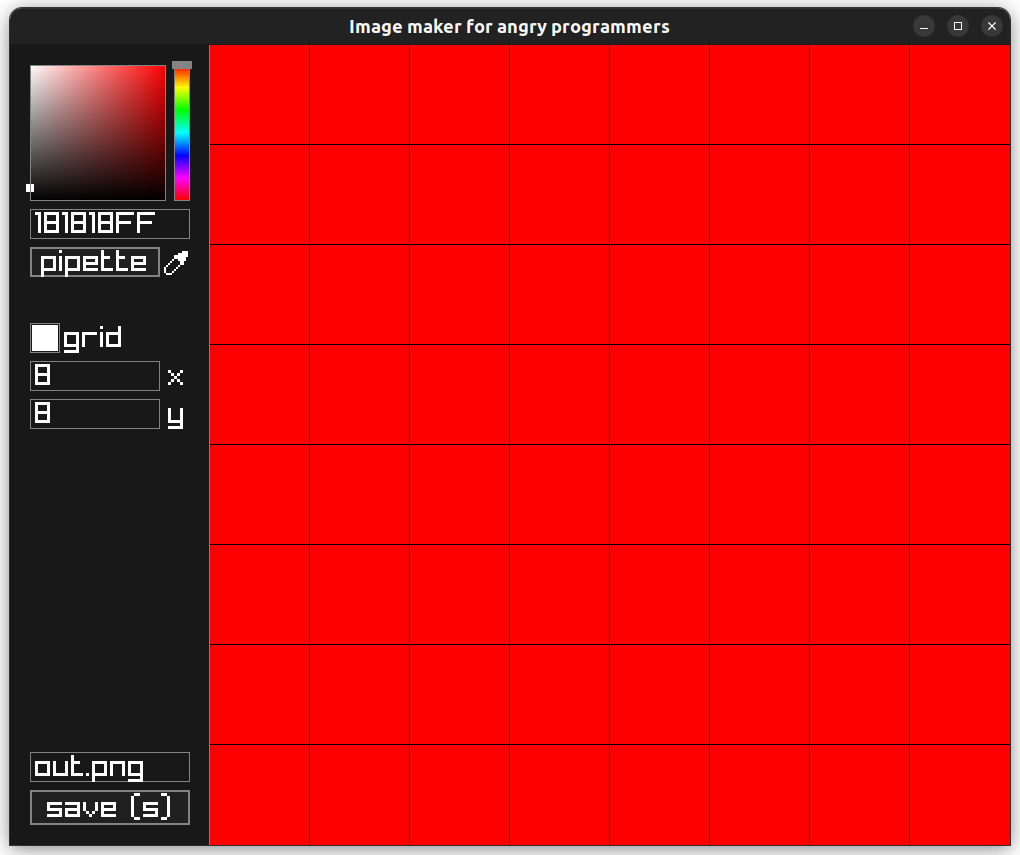
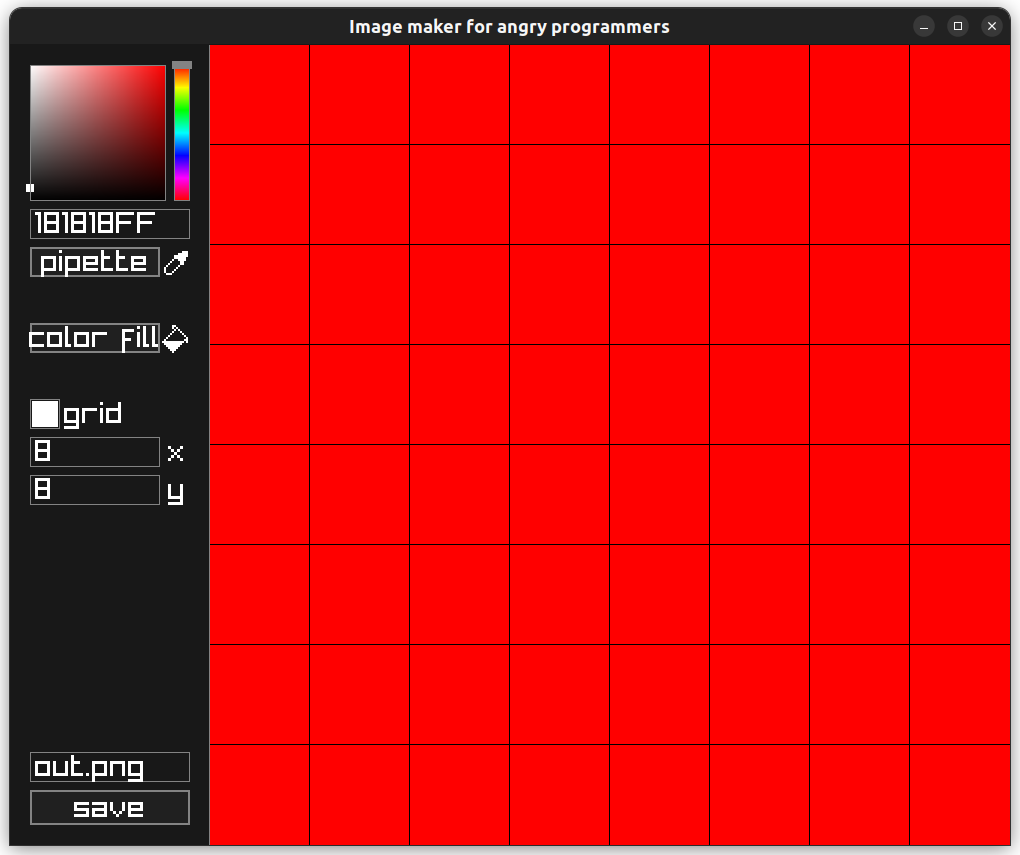
added color fill tool

Changed region(s): [[0.0304, 0.3649, 0.1824, 0.6082], [0.0304, 0.9123, 0.152, 0.9731], [0.152, 0.4865, 0.1824, 0.6082]]

diff --git a/main.c b/main.c
@@ -22,6 +22,7 @@
 enum CURSOR_MODE{
     CURSOR_DEFAULT,
     CURSOR_PIPETTE,
+    CURSOR_COLOR_FILL,
 };
 
 bool save_texture_as_image(Texture2D tex, const char *path){
@@ -72,6 +73,7 @@ Texture2D loadImageAsTexture(Image *img){
     return buffer;
 }
 
+// replaces the existing texture and unloads it. Returns true on success.
 bool setTextureToImage(Texture2D *texture, Image *img){
     Texture2D new_buffer = loadImageAsTexture(img);
     if (!IsTextureReady(new_buffer)){
@@ -125,6 +127,85 @@ void togglePipette(enum CURSOR_MODE *cursor){
     if (*cursor != CURSOR_PIPETTE) *cursor = CURSOR_PIPETTE;
     else *cursor = CURSOR_DEFAULT;
 }
+
+void toggleColorFill(enum CURSOR_MODE *cursor){
+    if (*cursor != CURSOR_COLOR_FILL) *cursor = CURSOR_COLOR_FILL;
+    else *cursor = CURSOR_DEFAULT;
+}
+
+void imageColorFlood(Image *image, Vector2 source_pixel, Color new_color){
+    Color old_color = GetImageColor(*image, source_pixel.x, source_pixel.y);
+
+    Color *pixels = (Color*)image->data;
+    size_t pixel_count = image->height * image->width;
+    size_t end_ptr = 0;
+    size_t next_ptr = 0;
+    size_t *queue = malloc(pixel_count * sizeof(*queue));
+    bool *visited = malloc(pixel_count * sizeof(*visited));
+    if (queue == NULL || visited == NULL){
+        perror("unable to allocate sufficient memory\n");
+        free(queue);
+        free(visited);
+        return;
+    }
+
+    memset(visited, 0, pixel_count * sizeof(*visited));
+
+    size_t source_pixel_idx = (int)source_pixel.x + (int)source_pixel.y * image->width;
+    queue[end_ptr++] = source_pixel_idx;
+
+    while(end_ptr != next_ptr){
+        if (end_ptr == pixel_count-1){
+            free(queue);
+            free(visited);
+            return;
+        }
+
+        size_t pixel_idx = queue[next_ptr++];
+        pixels[pixel_idx] = new_color;
+
+        if (pixel_idx >= 1){
+            size_t west = pixel_idx - 1;
+            if (memcmp(&pixels[west], &old_color, sizeof(old_color)) == 0){
+                if (!visited[west]){
+                    queue[end_ptr++] = west;
+                    visited[west] = true;
+                }
+            }
+        }
+        if (pixel_idx < pixel_count - 1){
+            size_t east = pixel_idx + 1;
+            if (memcmp(&pixels[east], &old_color, sizeof(old_color)) == 0){
+                if (!visited[east]){
+                    queue[end_ptr++] = east;
+                    visited[east] = true;
+                }
+            }
+        }
+        if (pixel_idx < pixel_count - image->width){
+            size_t south = pixel_idx + image->width;
+            if (memcmp(&pixels[south], &old_color, sizeof(old_color)) == 0){
+                if (!visited[south]){
+                    queue[end_ptr++] = south;
+                    visited[south] = true;
+                }
+            }
+        }
+        if (pixel_idx >= (size_t)image->width){
+            size_t north = pixel_idx - image->width;
+            if (memcmp(&pixels[north], &old_color, sizeof(old_color)) == 0){
+                if (!visited[north]){
+                    queue[end_ptr++] = north;
+                    visited[north] = true;
+                }
+            }
+        }
+    }
+
+    free(queue);
+    free(visited);
+}
+
 
 int main(int argc, char **argv){
 
@@ -271,12 +352,23 @@ int main(int argc, char **argv){
                     alpha = pixel_color.a;
                     UnloadImage(canvas_content);
                 }
+                // TODO: disable set pixel on button down, if a tool was pressed. (to avoid set pixel on tool clicks)
+                // color fill
+                else if (cursor == CURSOR_COLOR_FILL && IsMouseButtonPressed(MOUSE_BUTTON_LEFT)){
+                    cursor = CURSOR_DEFAULT;
+                    Image canvas_content = LoadImageFromTexture(buffer); // canvas content could be loaded as soon as pipette mode activates, if responsiveness is an issue.
+                    Color active_color = HSVToColor(active_hsv, alpha);
+                    imageColorFlood(&canvas_content, pixel, active_color);
+                    setTextureToImage(&buffer, &canvas_content);
+                    UnloadImage(canvas_content);
+                }
             }
             // shortcuts
             if (!isEditingHexField){
                 if(IsKeyPressed(KEY_S) && (IsKeyDown(KEY_LEFT_CONTROL)||IsKeyDown(KEY_RIGHT_CONTROL))) save_texture_as_image(buffer, name_field);
                 if(IsKeyPressed(KEY_G)) showGrid = !showGrid;
                 if(IsKeyPressed(KEY_P)) togglePipette(&cursor);
+                if(IsKeyPressed(KEY_F)) toggleColorFill(&cursor);
             }
         }
 
@@ -352,6 +444,19 @@ int main(int argc, char **argv){
         }
         // TODO: icon should scale with font size.
         GuiDrawIcon(27, menu_padding + menu_content_width - menu_font_size, options_y + (item++)*(huebar_padding+menu_font_size), 2, WHITE);
+
+        item++;
+
+        // color fill button
+        Rectangle color_fill_box = {menu_padding, options_y + item*(huebar_padding+menu_font_size), menu_content_width - menu_font_size, menu_font_size};
+        if(GuiButton(color_fill_box, "color fill")){
+            toggleColorFill(&cursor);
+        }
+        if (cursor == CURSOR_COLOR_FILL){
+            DrawRectangleRec(color_fill_box, ColorAlpha(RED, 0.3));
+        }
+        // TODO: icon should scale with font size.
+        GuiDrawIcon(29, menu_padding + menu_content_width - menu_font_size, options_y + (item++)*(huebar_padding+menu_font_size), 2, WHITE);
 
         item++;
 
